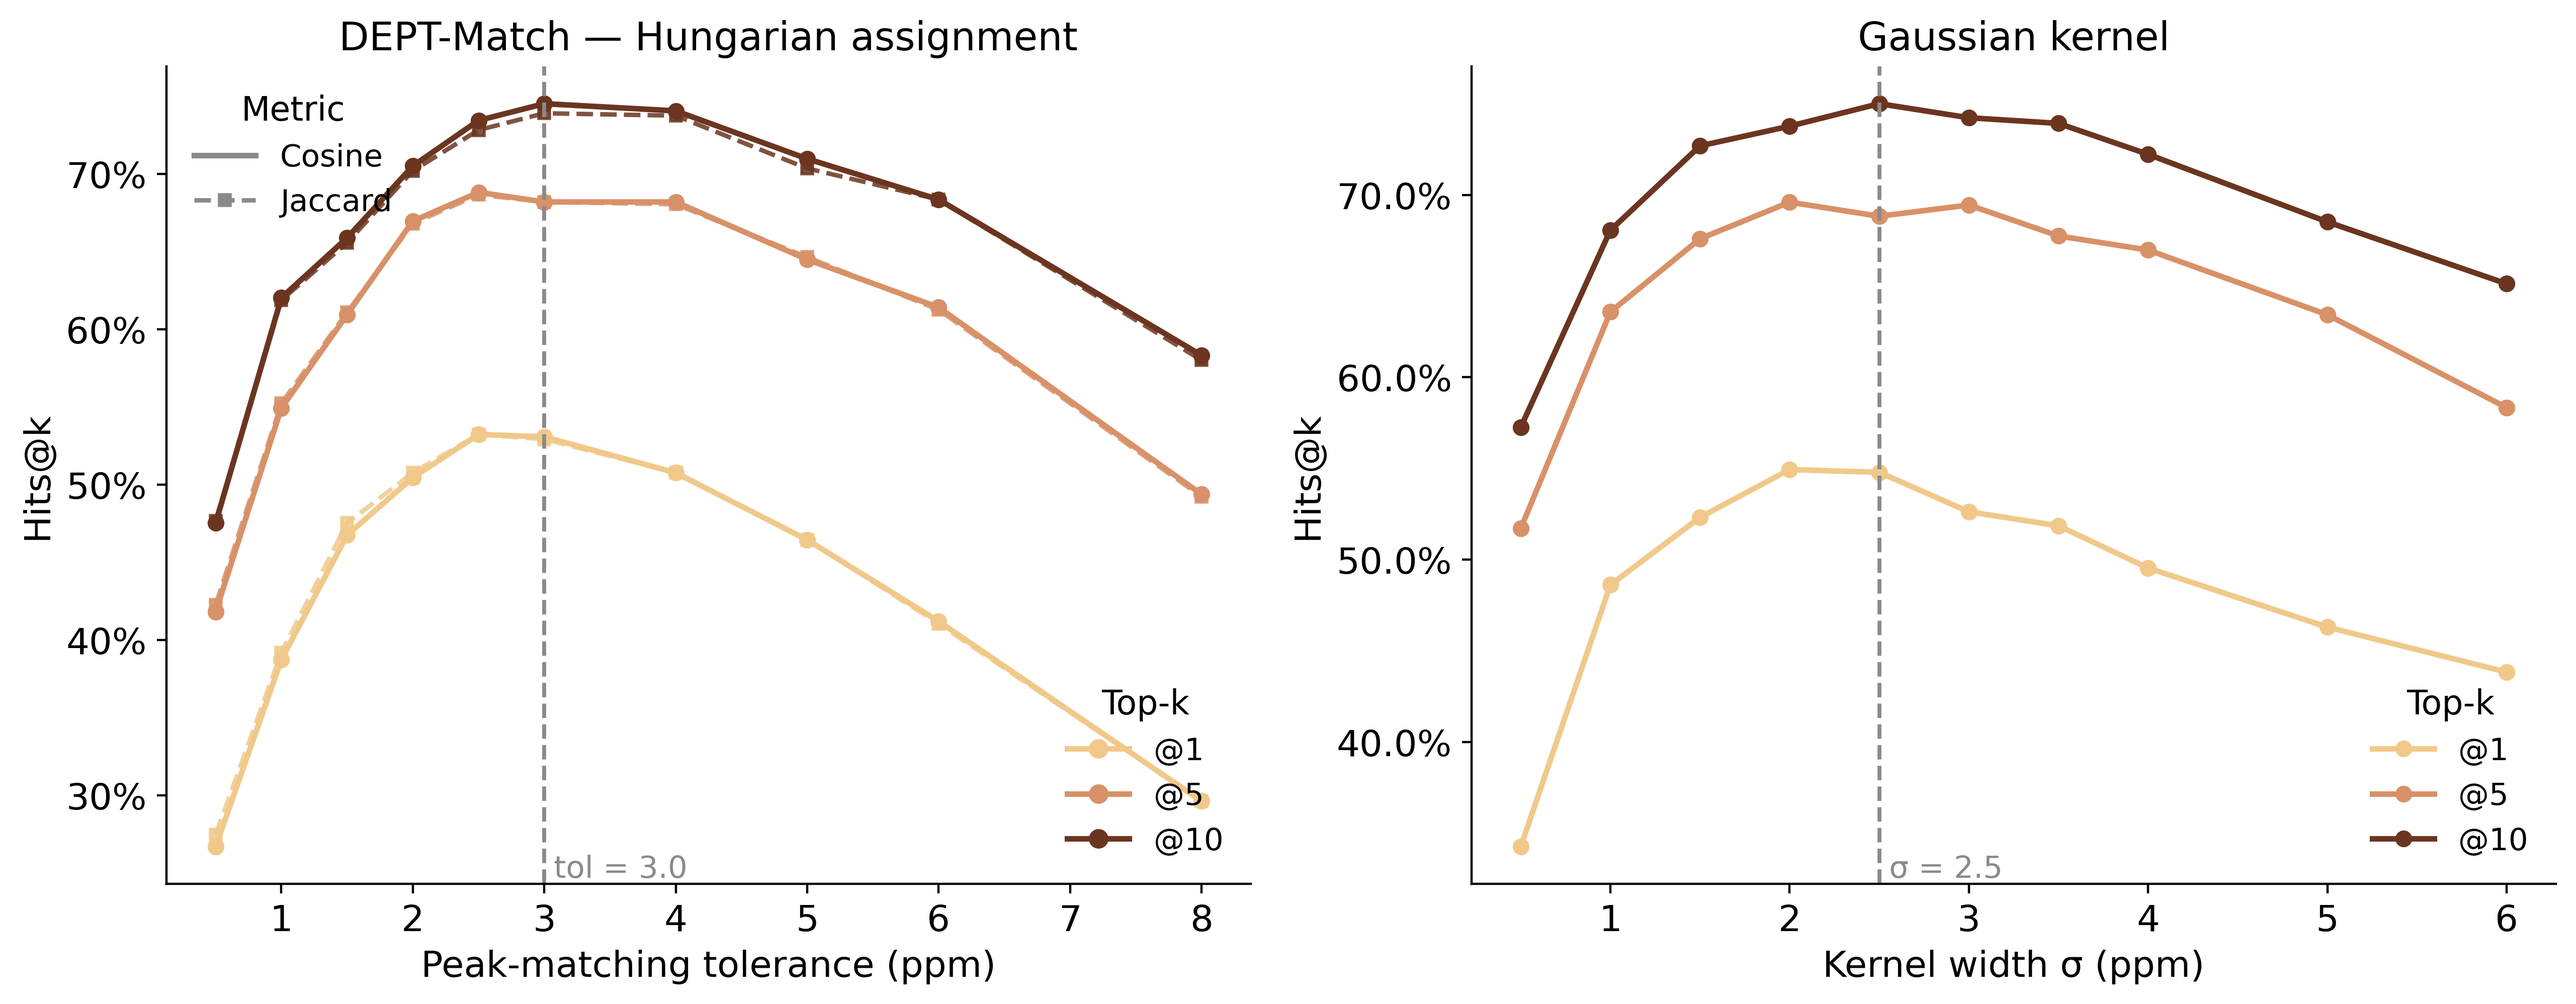
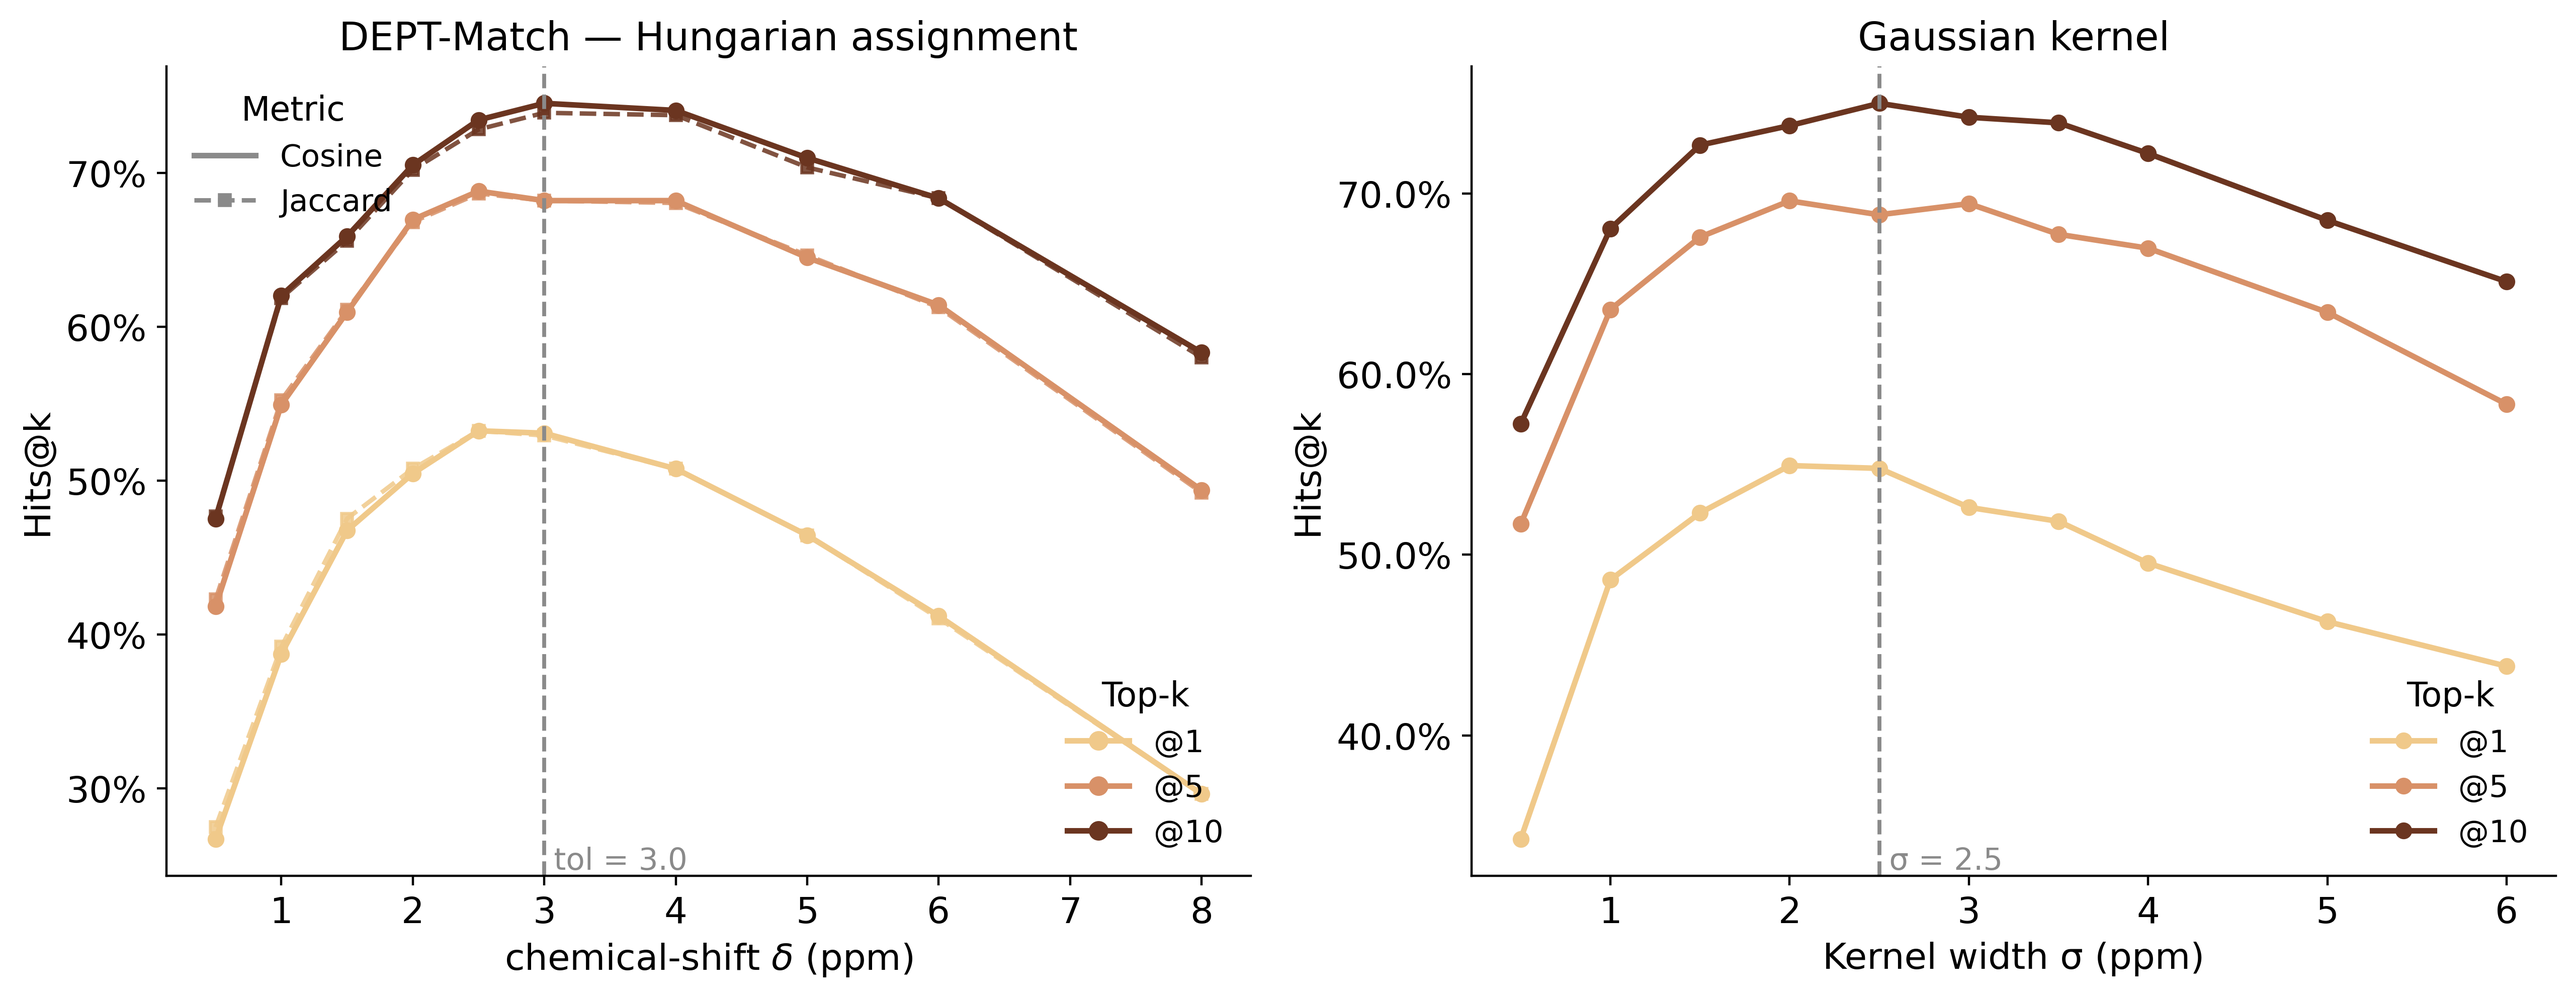
Improve supplementary figure axes

diff --git a/scripts/plot_tie_distribution.py b/scripts/plot_tie_distribution.py
@@ -1,0 +1,254 @@
+"""Fig — distribution of the number of ties at the top retrieval score across methods.
+
+For every query and every method we compute the *full* candidate score vector (not just the
+top-10 stored in the ranked lists) and count how many candidates share the maximum score —
+the "ties at top score". The per-method distribution of that count shows how often a method
+leaves the identity of the #1 hit ambiguous.
+
+Reuses the exact scoring paths from notebook 04 / ``experiments.py`` (Gaussian and
+shift-binned cosine as a single library matmul; DEPT-Match via Hungarian alignment).
+DEPT-Match re-aligns every prefiltered pair, so this is opt-in slow (minutes on a laptop).
+
+Before plotting, the recomputed top-10 rankings are checked against the committed
+``ranked_top10.parquet`` files to confirm the on-disk data still matches the cached results.
+
+Writes ``data/figures/tie_distribution_comparison.png``.
+"""
+import os
+
+# The Hungarian workers rely on fork inheritance of the shared library-peaks dict (see
+# ``experiments.py``); macOS defaults to "spawn", which loses that global. Force fork and
+# pin BLAS/OMP to one thread so forking after the vector-method GEMM can't deadlock.
+for _v in ("OMP_NUM_THREADS", "OPENBLAS_NUM_THREADS", "MKL_NUM_THREADS", "VECLIB_MAXIMUM_THREADS", "NUMEXPR_NUM_THREADS"):
+    os.environ.setdefault(_v, "1")
+import multiprocessing as _mp
+try:
+    _mp.set_start_method("fork")
+except RuntimeError:
+    pass
+
+import pickle
+import time
+from pathlib import Path
+
+import matplotlib
+matplotlib.use("Agg")
+import matplotlib.pyplot as plt
+import numpy as np
+import pandas as pd
+from joblib import Parallel, delayed
+
+from dept_similarity.bin_vector import generate_ppm_bins_typed
+from dept_similarity.constants import (
+    FIGURE_DIR,
+    METHOD_NAME_MAPPER,
+    PALETTE_METHODS,
+    PROCESSED_DATA_DIR,
+    RESULTS_DIR,
+)
+from dept_similarity.gaussian_vector import generate_gaussian_vector
+from dept_similarity.prepare import prefilter_pairs_by_peak_overlap
+from dept_similarity.spectral_matching import (
+    align_dept_peaks_hungarian,
+    cosine_from_alignment,
+    jaccard_from_alignment,
+)
+
+MAX_TIES = 20          # x-axis extent (ties >= this fold into the last bin)
+TIE_ATOL = 1e-9        # two scores counted as tied if within this absolute tolerance
+CACHE = Path("../data/cache/tie_inputs.pkl")
+SCORES_CACHE = Path("../data/cache/tie_scores.pkl")  # full per-query score vectors per method
+
+# Legend order and colors reproduce the original figure (green / amber / blue / red).
+# DEPT-Match (Jaccard) tracks DEPT-Match (Cosine) almost exactly, so it is drawn as a dashed
+# line on top (high zorder) to stay legible where the two curves overlap.
+#           method            metric     color               linestyle marker zorder
+METHOD_ORDER = [
+    ("hungarian_match", "jaccard", PALETTE_METHODS[0], "--", "s", 6),  # DEPT-Match (Jaccard) — green
+    ("gauss_kernel", "cosine", PALETTE_METHODS[1], "-", "o", 3),       # Gaussian (Cosine)    — amber
+    ("hungarian_match", "cosine", PALETTE_METHODS[2], "-", "o", 4),    # DEPT-Match (Cosine)  — blue
+    ("ppm_bins_typed", "cosine", PALETTE_METHODS[3], "-", "o", 3),     # Shift binned (Cosine)— red
+]
+
+
+def _arr(v):
+    return v.astype(np.float32, copy=False) if isinstance(v, np.ndarray) else np.asarray(v, np.float32)
+
+
+def build_inputs():
+    """Load library + query spectra and the clean-query candidate pool.
+
+    The on-disk library uses ``intensity_signed`` / ``inchikey_14``; the pipeline expects
+    ``signed_shifts`` / ``inchikey14`` (as in ``experiments.build_experiment_inputs``), so we
+    rename on load. Cached to disk since the prefilter takes ~30 s.
+    """
+    if CACHE.exists():
+        with open(CACHE, "rb") as fh:
+            return pickle.load(fh)
+
+    lib = pd.read_parquet(Path(PROCESSED_DATA_DIR) / "library_data.parquet").rename(
+        columns={"intensity_signed": "signed_shifts", "inchikey_14": "inchikey14"})
+    q = pd.read_parquet(Path(PROCESSED_DATA_DIR) / "experimental_validation_set.parquet")
+    lib["signed_shifts"] = lib["signed_shifts"].map(_arr)
+    q["signed_shifts"] = q["signed_shifts"].map(_arr)
+    if not (q["compound_id"].str.split("_").str[-1] == q["inchikey14"]).all():
+        q["compound_id"] = q["compound_id"] + "_" + q["inchikey14"]
+
+    pairs = {k: sorted(v) for k, v in prefilter_pairs_by_peak_overlap(q, lib).items()}
+    out = {
+        "pairs": pairs,
+        "query_peaks": q.set_index("compound_id")["signed_shifts"].to_dict(),
+        "lib_peaks": lib.set_index("compound_id")["signed_shifts"].to_dict(),
+    }
+    CACHE.parent.mkdir(parents=True, exist_ok=True)
+    with open(CACHE, "wb") as fh:
+        pickle.dump(out, fh)
+    return out
+
+
+def _row_normalise(matrix):
+    norms = np.linalg.norm(matrix, axis=1, keepdims=True)
+    norms[norms == 0] = 1.0
+    return (matrix / norms).astype(np.float32)
+
+
+def _count_ties(scores):
+    """Number of candidates sharing the maximum score."""
+    if len(scores) == 0:
+        return 0
+    return int(np.sum(np.isclose(scores, scores.max(), rtol=0, atol=TIE_ATOL)))
+
+
+# ---- vector methods: full score vector per query via one batched GEMM ----
+def vector_full_scores(query_ids, query_peaks, pairs, lib_peaks, method, gauss_sigma):
+    cand_order = sorted({c for v in pairs.values() for c in v})
+    cand_index = {c: i for i, c in enumerate(cand_order)}
+    enc = ((lambda p: generate_gaussian_vector(p, sigma=gauss_sigma))
+           if method == "gauss_kernel" else generate_ppm_bins_typed)
+
+    lib_norm = _row_normalise(np.stack(Parallel(n_jobs=-1, backend="multiprocessing")(
+        delayed(generate_gaussian_vector)(lib_peaks[c], sigma=gauss_sigma) if method == "gauss_kernel"
+        else delayed(generate_ppm_bins_typed)(lib_peaks[c]) for c in cand_order)))
+    q_mat = _row_normalise(np.stack([enc(query_peaks[q]) for q in query_ids]))
+    scores_full = lib_norm @ q_mat.T  # (n_cand, n_query)
+
+    per_query = {}
+    for j, q in enumerate(query_ids):
+        cand = pairs[q]
+        idx = np.fromiter((cand_index[c] for c in cand), dtype=np.int64, count=len(cand))
+        per_query[q] = scores_full[idx, j]
+    return per_query
+
+
+# ---- Hungarian: full re-alignment per pair (shared lib via fork) ----
+_LIB = None
+
+
+def _set_lib(lib_peaks):
+    global _LIB
+    _LIB = lib_peaks
+
+
+def _hungarian_query(q, qpeaks, cand, ppm_tol):
+    cos = np.empty(len(cand)); jac = np.empty(len(cand))
+    for i, c in enumerate(cand):
+        res = align_dept_peaks_hungarian(qpeaks, _LIB[c], ppm_tolerance=ppm_tol, match_multiplicity=True)
+        cos[i] = cosine_from_alignment(res, 1)
+        jac[i] = jaccard_from_alignment(res, 1)
+    return q, cos, jac
+
+
+def hungarian_full_scores(query_ids, query_peaks, pairs, lib_peaks, ppm_tol):
+    _set_lib(lib_peaks)
+    results = Parallel(n_jobs=-1, backend="multiprocessing")(
+        delayed(_hungarian_query)(q, query_peaks[q], pairs[q], ppm_tol) for q in query_ids)
+    cos = {q: c for q, c, _ in results}
+    jac = {q: j for q, _, j in results}
+    return {"cosine": cos, "jaccard": jac}
+
+
+def _check_topk(per_query_scores, pairs, method, metric):
+    """Sanity-check recomputed rankings against the committed ranked_top10.parquet."""
+    path = Path(RESULTS_DIR) / f"{method}_{metric}" / "ranked_top10.parquet"
+    old = pd.read_parquet(path).set_index("query_id")
+    ok = tot = 0
+    for q, scores in per_query_scores.items():
+        if q not in old.index:
+            continue
+        cand = pairs[q]
+        order = np.argsort(-scores, kind="stable")[:10]
+        sel = [cand[i] for i in order]
+        tot += 1
+        ok += (sel == list(old.loc[q, "candidate_id_list"]))
+    frac = ok / tot if tot else float("nan")
+    print(f"  check {method}_{metric}: {ok}/{tot} top-10 identical ({frac:.1%})", flush=True)
+    return frac
+
+
+def main():
+    t0 = time.time()
+    d = build_inputs()
+    pairs, qp, lp = d["pairs"], d["query_peaks"], d["lib_peaks"]
+    query_ids = list(pairs.keys())
+    print(f"inputs: {len(query_ids)} queries, "
+          f"{sum(len(v) for v in pairs.values()):,} pairs ({time.time() - t0:.0f}s)", flush=True)
+
+    OPT = Path(RESULTS_DIR) / "optimization"
+    gauss_sigma = float(pd.read_parquet(OPT / "gaussian" / "summary_hits_at_k.parquet")
+                        .sort_values("Hits@10 (%)").iloc[-1]["sigma"])
+    hung_tol = float(pd.read_parquet(OPT / "hungarian" / "summary_hits_at_k.parquet")
+                     .sort_values("Hits@10 cosine (%)").iloc[-1]["ppm_tolerance"])
+    print(f"gauss_sigma={gauss_sigma}  hung_tol={hung_tol}", flush=True)
+
+    # Full score vectors per method (cached so tie-tolerance can be tuned without recompute).
+    if SCORES_CACHE.exists():
+        with open(SCORES_CACHE, "rb") as fh:
+            scores = pickle.load(fh)
+        print(f"loaded cached scores ({time.time() - t0:.0f}s)", flush=True)
+    else:
+        scores = {}
+        t = time.time()
+        scores["gauss_kernel", "cosine"] = vector_full_scores(query_ids, qp, pairs, lp, "gauss_kernel", gauss_sigma)
+        print(f"gauss_kernel done ({time.time() - t:.0f}s)", flush=True)
+        t = time.time()
+        scores["ppm_bins_typed", "cosine"] = vector_full_scores(query_ids, qp, pairs, lp, "ppm_bins_typed", gauss_sigma)
+        print(f"ppm_bins_typed done ({time.time() - t:.0f}s)", flush=True)
+        t = time.time()
+        hung = hungarian_full_scores(query_ids, qp, pairs, lp, hung_tol)
+        scores["hungarian_match", "cosine"] = hung["cosine"]
+        scores["hungarian_match", "jaccard"] = hung["jaccard"]
+        print(f"hungarian done ({time.time() - t:.0f}s)", flush=True)
+        with open(SCORES_CACHE, "wb") as fh:
+            pickle.dump(scores, fh)
+
+    # Consistency check vs committed ranked lists.
+    print("consistency check vs committed ranked_top10:", flush=True)
+    for (method, metric), pq in scores.items():
+        _check_topk(pq, pairs, method, metric)
+
+    # Tie-count distributions (probability mass over 1..MAX_TIES, tail folded into MAX_TIES).
+    x = np.arange(1, MAX_TIES + 1)
+    plt.rcParams.update({"font.size": 15})
+    fig, ax = plt.subplots(figsize=(9, 7.5))
+    for method, metric, color, ls, marker, zorder in METHOD_ORDER:
+        counts = np.array([_count_ties(scores[method, metric][q]) for q in query_ids])
+        counts = np.clip(counts, 1, MAX_TIES)
+        density = np.array([(counts == n).sum() for n in x], dtype=float) / len(counts)
+        label = METHOD_NAME_MAPPER.get(f"{method}_{metric}", f"{method} ({metric})")
+        ax.plot(x, density, ls=ls, marker=marker, color=color, lw=2, ms=6, label=label, zorder=zorder)
+
+    ax.set_title("Distribution of the number of ties\namong the top hit(s) across methods", fontsize=18)
+    ax.set_xlabel("Number of ties at top score", fontsize=17)
+    ax.set_ylabel("Density", fontsize=17)
+    ax.set_xlim(0.5, MAX_TIES)
+    ax.grid(True, alpha=0.3)
+    ax.legend(frameon=True, fontsize=15)
+    ax.spines[["top", "right"]].set_visible(False)
+    fig.tight_layout()
+    out = Path(FIGURE_DIR) / "tie_distribution_comparison.png"
+    fig.savefig(out, dpi=400, bbox_inches="tight")
+    print(f"saved {out}  (total {time.time() - t0:.0f}s)", flush=True)
+
+
+if __name__ == "__main__":
+    main()
